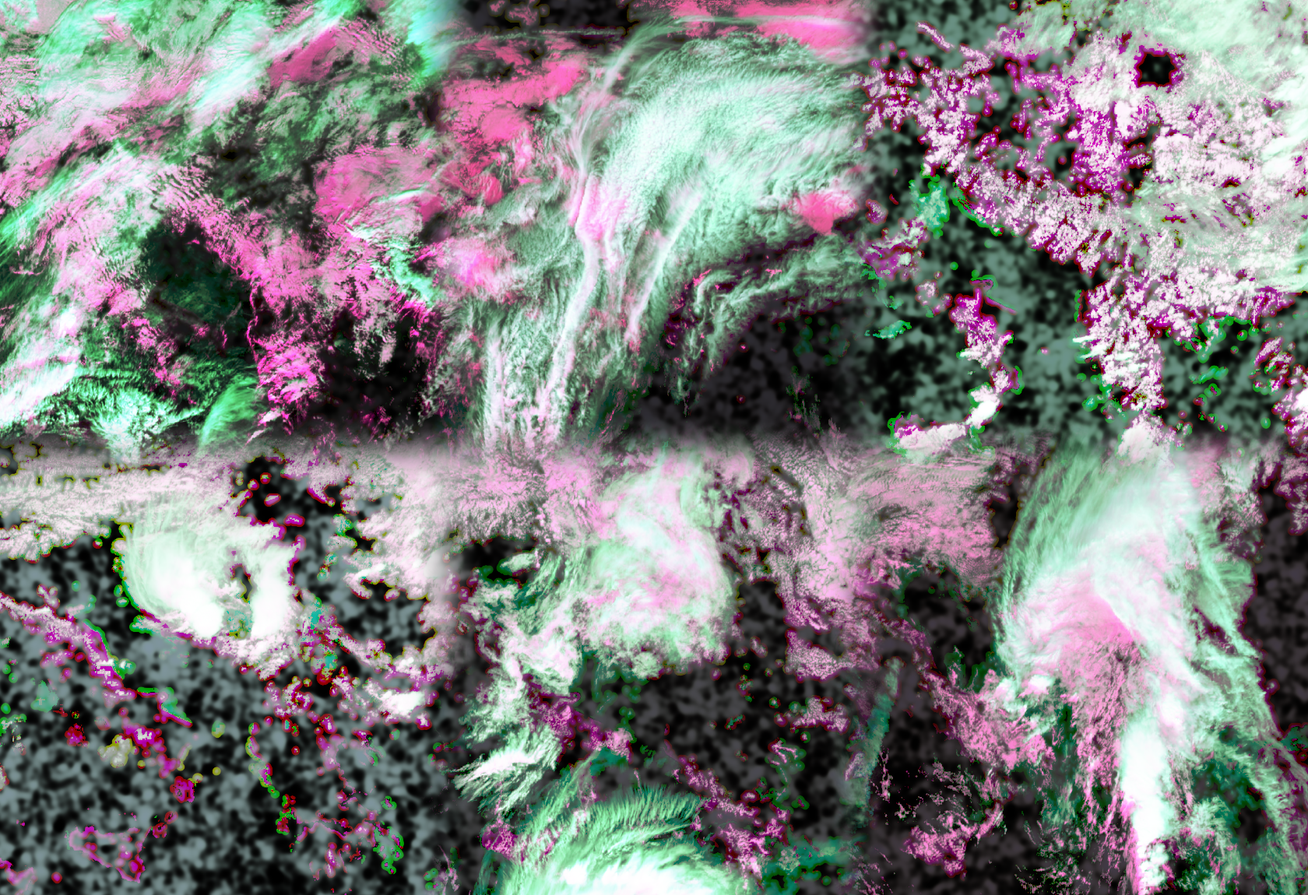
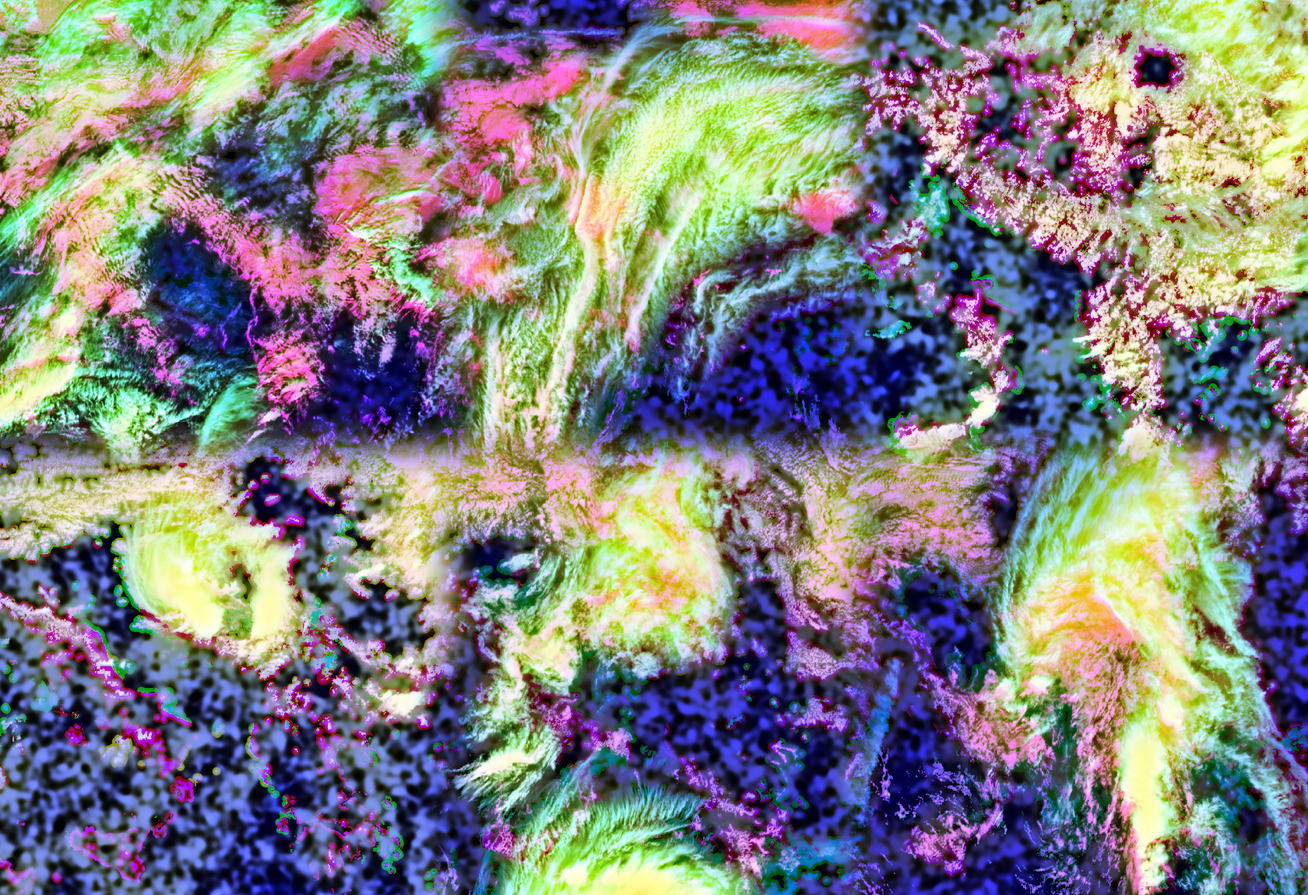
Radar Sandbox: stop periodic cloud vanishing on satellite
Rendered cloud cover swung by up to ~13% on a ~2 h rhythm while the
simulated cloud fraction rose smoothly. Causes and fixes:
- the cloud atlas's threshold channel carried large clear/cloudy regions
  from the source scenes, so drifting textures changed local cover; it is
  now locally normalised (~40 km), keeping real cloud shapes;
- the two drifting texture layers are now blended in Gaussian space
  (distribution-preserving) for clouds and rain.
Max swing at constant conditions is now ~3%.

Claude-Session: https://claude.ai/code/session_01DKpUR6xtcj9CFzPuhxEyFT

diff --git a/docs/radar-sandbox/js/radar.js b/docs/radar-sandbox/js/radar.js
@@ -30,6 +30,28 @@ function sampleMirror(A, x, y, ch = 'b') {
   const i = Math.min(w - 2, xf | 0), j = Math.min(h - 2, yf | 0), fx = xf - i, fy = yf - j, d = A[ch];
   return ((d[j * w + i] * (1 - fx) + d[j * w + i + 1] * fx) * (1 - fy) + (d[(j + 1) * w + i] * (1 - fx) + d[(j + 1) * w + i + 1] * fx) * fy) / 255;
 }
+// Blending two independent rank (0..1) textures changes their value
+// distribution (two uniforms average to a triangle), which made rendered
+// cloud and rain cover swing as the layer weights cycled. Blend in Gaussian
+// space with variance-preserving weights, then map back to uniform.
+function probit(u) {
+  u = Math.min(1 - 1e-6, Math.max(1e-6, u));
+  const t = Math.sqrt(-2 * Math.log(u < 0.5 ? u : 1 - u));
+  const z = t - (2.515517 + 0.802853 * t + 0.010328 * t * t) / (1 + 1.432788 * t + 0.189269 * t * t + 0.001308 * t * t * t);
+  return u < 0.5 ? -z : z;
+}
+function ncdf(z) {
+  const t = 1 / (1 + 0.2316419 * Math.abs(z)), d = 0.3989423 * Math.exp(-z * z / 2);
+  const p = d * t * (0.3193815 + t * (-0.3565638 + t * (1.781478 + t * (-1.821256 + t * 1.330274))));
+  return z > 0 ? 1 - p : p;
+}
+// wA, wB: layer weights; inputs are 0..1 ranks.
+function blendU(uA, uB, wA, wB) {
+  if (wB <= 0.01) return uA;
+  if (wA <= 0.01) return uB;
+  return ncdf((wA * probit(uA) + wB * probit(uB)) / Math.sqrt(wA * wA + wB * wB));
+}
+
 // Wet-pixel dBZ distribution of real Uljenje rain (quantiles).
 function realDbz(v) {
   const q = ATLAS.rainQ, x = clamp(v, 0, 1) * (q.length - 1), i = Math.min(q.length - 2, x | 0);
@@ -165,10 +187,7 @@ export class Raster {
       // Where in the real rain pattern this pixel sits (flow-following coordinates).
       let a;
       if (atlas) {
-        a = 0;
-        if (wA > 0.01) a += wA * (sampleWrap(atlas, bil(tAx), bil(tAy)) - 0.5);
-        if (wB > 0.01) a += wB * (sampleWrap(atlas, bil(tBx), bil(tBy)) - 0.5);
-        a = clamp(0.5 + a * wN, 0, 1);
+        a = blendU(wA > 0.01 ? sampleWrap(atlas, bil(tAx), bil(tAy)) : 0.5, wB > 0.01 ? sampleWrap(atlas, bil(tBx), bil(tBy)) : 0.5, wA, wB);
       } else {
         a = clamp(0.5 + 0.5 * fbm(this.nA, bil(tAx) / 30, bil(tAy) / 30, 5), 0, 1);
       }
@@ -179,10 +198,8 @@ export class Raster {
       let env = 1;
       const BA = ATLAS.band, bs = BA ? 1 / 4.5 : 1 / 5, src = BA || atlas;
       if (src) {
-        let cz = 0;
-        if (wA > 0.01) cz += wA * (sampleWrap(src, bil(tAx) * bs + 333, bil(tAy) * bs + 777) - 0.5);
-        if (wB > 0.01) cz += wB * (sampleWrap(src, bil(tBx) * bs + 333, bil(tBy) * bs + 777) - 0.5);
-        const u = clamp(0.5 + cz * wN, 0, 1);
+        const u = blendU(wA > 0.01 ? sampleWrap(src, bil(tAx) * bs + 333, bil(tAy) * bs + 777) : 0.5,
+          wB > 0.01 ? sampleWrap(src, bil(tBx) * bs + 333, bil(tBy) * bs + 777) : 0.5, wA, wB);
         env = 0.2 + 1.6 * u * u;
       }
       const tsx = bil(sim.TS);
@@ -399,10 +416,9 @@ export class Raster {
       const CA = ATLAS.cloud;
       if (CA) {
         const ax = bil(sim.tAx), ay = bil(sim.tAy), bx = bil(sim.tBx), by = bil(sim.tBy);
-        let r1 = 0, c1 = 0;
-        if (wA > 0.01) { n += wA * (sampleMirror(CA, ax, ay) - 0.5); r1 += wA * (sampleMirror(CA, ax, ay, 'r') - 0.5); c1 += wA * (sampleMirror(CA, ax, ay, 'g') - 0.5); }
-        if (wB > 0.01) { n += wB * (sampleMirror(CA, bx, by) - 0.5); r1 += wB * (sampleMirror(CA, bx, by, 'r') - 0.5); c1 += wB * (sampleMirror(CA, bx, by, 'g') - 0.5); }
-        n = clamp(n * wN, -0.5, 0.5); rv = clamp(0.5 + r1 * wN, 0, 1); rc = clamp(0.5 + c1 * wN, 0, 1);
+        const sA = ch => (wA > 0.01 ? sampleMirror(CA, ax, ay, ch) : 0.5), sB = ch => (wB > 0.01 ? sampleMirror(CA, bx, by, ch) : 0.5);
+        n = blendU(sA('b'), sB('b'), wA, wB) - 0.5;
+        rv = blendU(sA('r'), sB('r'), wA, wB); rc = blendU(sA('g'), sB('g'), wA, wB);
       } else {
         if (wA > 0.01) n += wA * fbm(this.nB, bil(sim.tAx) / 48 + tt * 0.03, bil(sim.tAy) / 48, 5);
         if (wB > 0.01) n += wB * fbm(this.nB, bil(sim.tBx) / 48 + tt * 0.03, bil(sim.tBy) / 48, 5);
